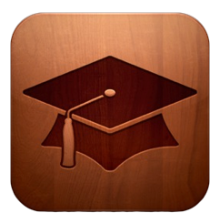
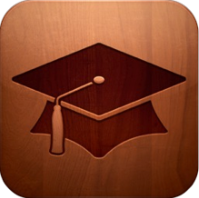
it's platform 이미지 변경
-

diff --git a/pages/tutorial01_pomodoro.html b/pages/tutorial01_pomodoro.html
@@ -38,8 +38,8 @@
 
         <!-- 온라인 강의 -->
         <h3>온라인 강의</h3>
-			<img src="../images/icon-onoffmix.png"  class="btn-frame video-frame"/>
-			<img src="../images/icon-itunesU.png"  class="btn-frame video-frame dimmed"/>
+			<a href="#" target='_new'><div class="btn-frame video-frame"><img src="../images/icon-itsplatform.png" /></div></a>
+			<div class="btn-frame video-frame dimmed"><img src="../images/icon-itunesU.png" /></div>
 		<br style="clear:both;" /><br /><br />
 
 
@@ -84,8 +84,8 @@
 
         <!-- 책 -->
         <h3>출간 형태</h3>
-<div class="btn-frame book-frame"><a href=https://itunes.apple.com/us/book/ppomodolo-taimeo-mandeulgi/id667289440?mt=11 target='_new'><p><img class="btn-icon" src="../images/icon-epub.png" /><span class="btn-text">ePub</span><p></a></div>
-<div class="btn-frame book-frame"><a href=http://www.huddlebooks.com/?p=1101 target='_new'><p><img class="btn-icon" src="../images/icon-paperbook.png" /><span class="btn-text">종이책 ∙ PDF</span><p></a></div>
+<div class="book-frame"><a href=https://itunes.apple.com/us/book/ppomodolo-taimeo-mandeulgi/id667289440?mt=11 target='_new'><p><img class="btn-icon" src="../images/icon-epub.png" /><span class="btn-text">ePub</span><p></a></div>
+<div class="book-frame"><a href=http://www.huddlebooks.com/?p=1101 target='_new'><p><img class="btn-icon" src="../images/icon-paperbook.png" /><span class="btn-text">종이책 ∙ PDF</span><p></a></div>
 <br style="clear:both;" />
 
 <p class="sub-link"><a href=http://www.huddlebooks.com/?p=1021> >> Error Report</a></p>

diff --git a/stylesheets/styles.css b/stylesheets/styles.css
@@ -53,23 +53,29 @@
 }
 
 .btn-frame {
-	width: 47%;
+	width: 45%;
 	margin: auto 10px 2% 0;
 	float: left;
 	vertical-align: middle;
 	background-color:white;
 	box-shadow: 3px 3px 1px #cfccbd;
 	border: 2px solid #cead82;
-	-webkit-border-radius: 5px;
+	-webkit-border-radius: 15px;
 }
 .video-frame{
-	width:17%;
-	padding:0;
+	width:80px;
+	height:80px;
+	vertical-align:middle;
 }
 
 .book-frame {
+	width: 45%;
 	background-image: -webkit-gradient(linear, left top, left bottom, from(#f3bb00), to(#f39300));
 	border: 1px #50b9cc;
+	box-shadow: 3px 3px 1px #cfccbd;
+	-webkit-border-radius: 10px;
+	float: left;
+	margin: auto 10px 2% 0;
 }
 
 .app-div {
@@ -391,7 +397,8 @@ footer {
   }
   .app-div {
 	width: 55%;
-
+  .book-frame {
+	width: 100%;}
 }
 
 @media print, screen and (max-width: 480px) {
@@ -402,8 +409,6 @@ footer {
   header ul {
     display:none;
   }
-  .book-frame {
-	width: 100%;}
 
 }
 
